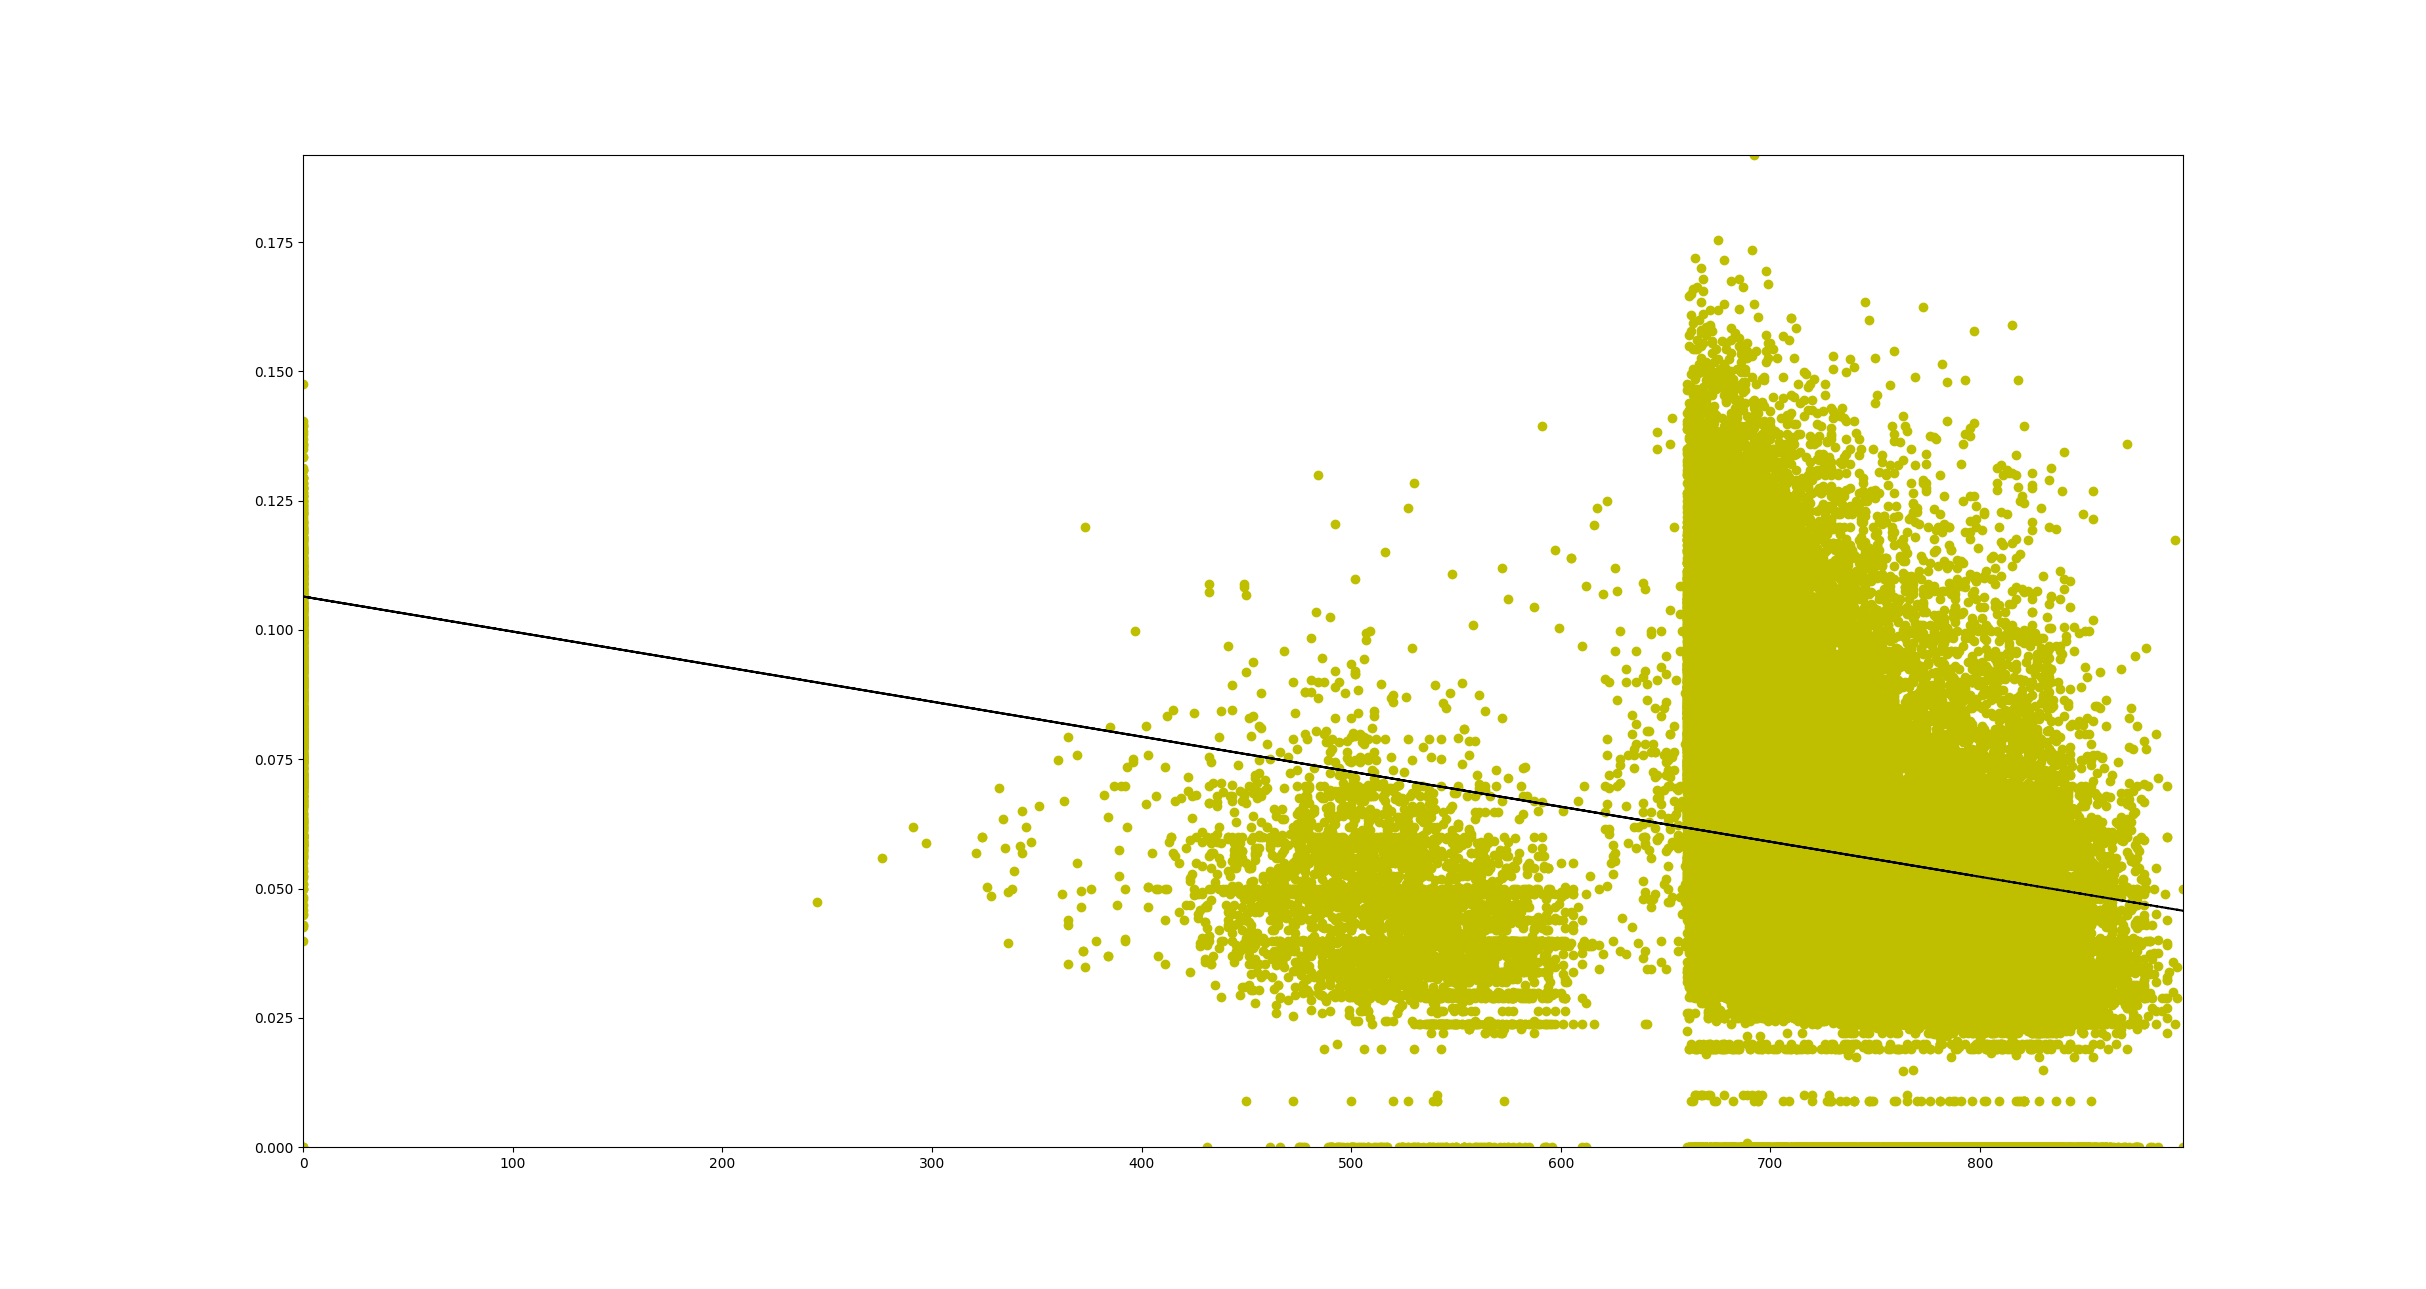
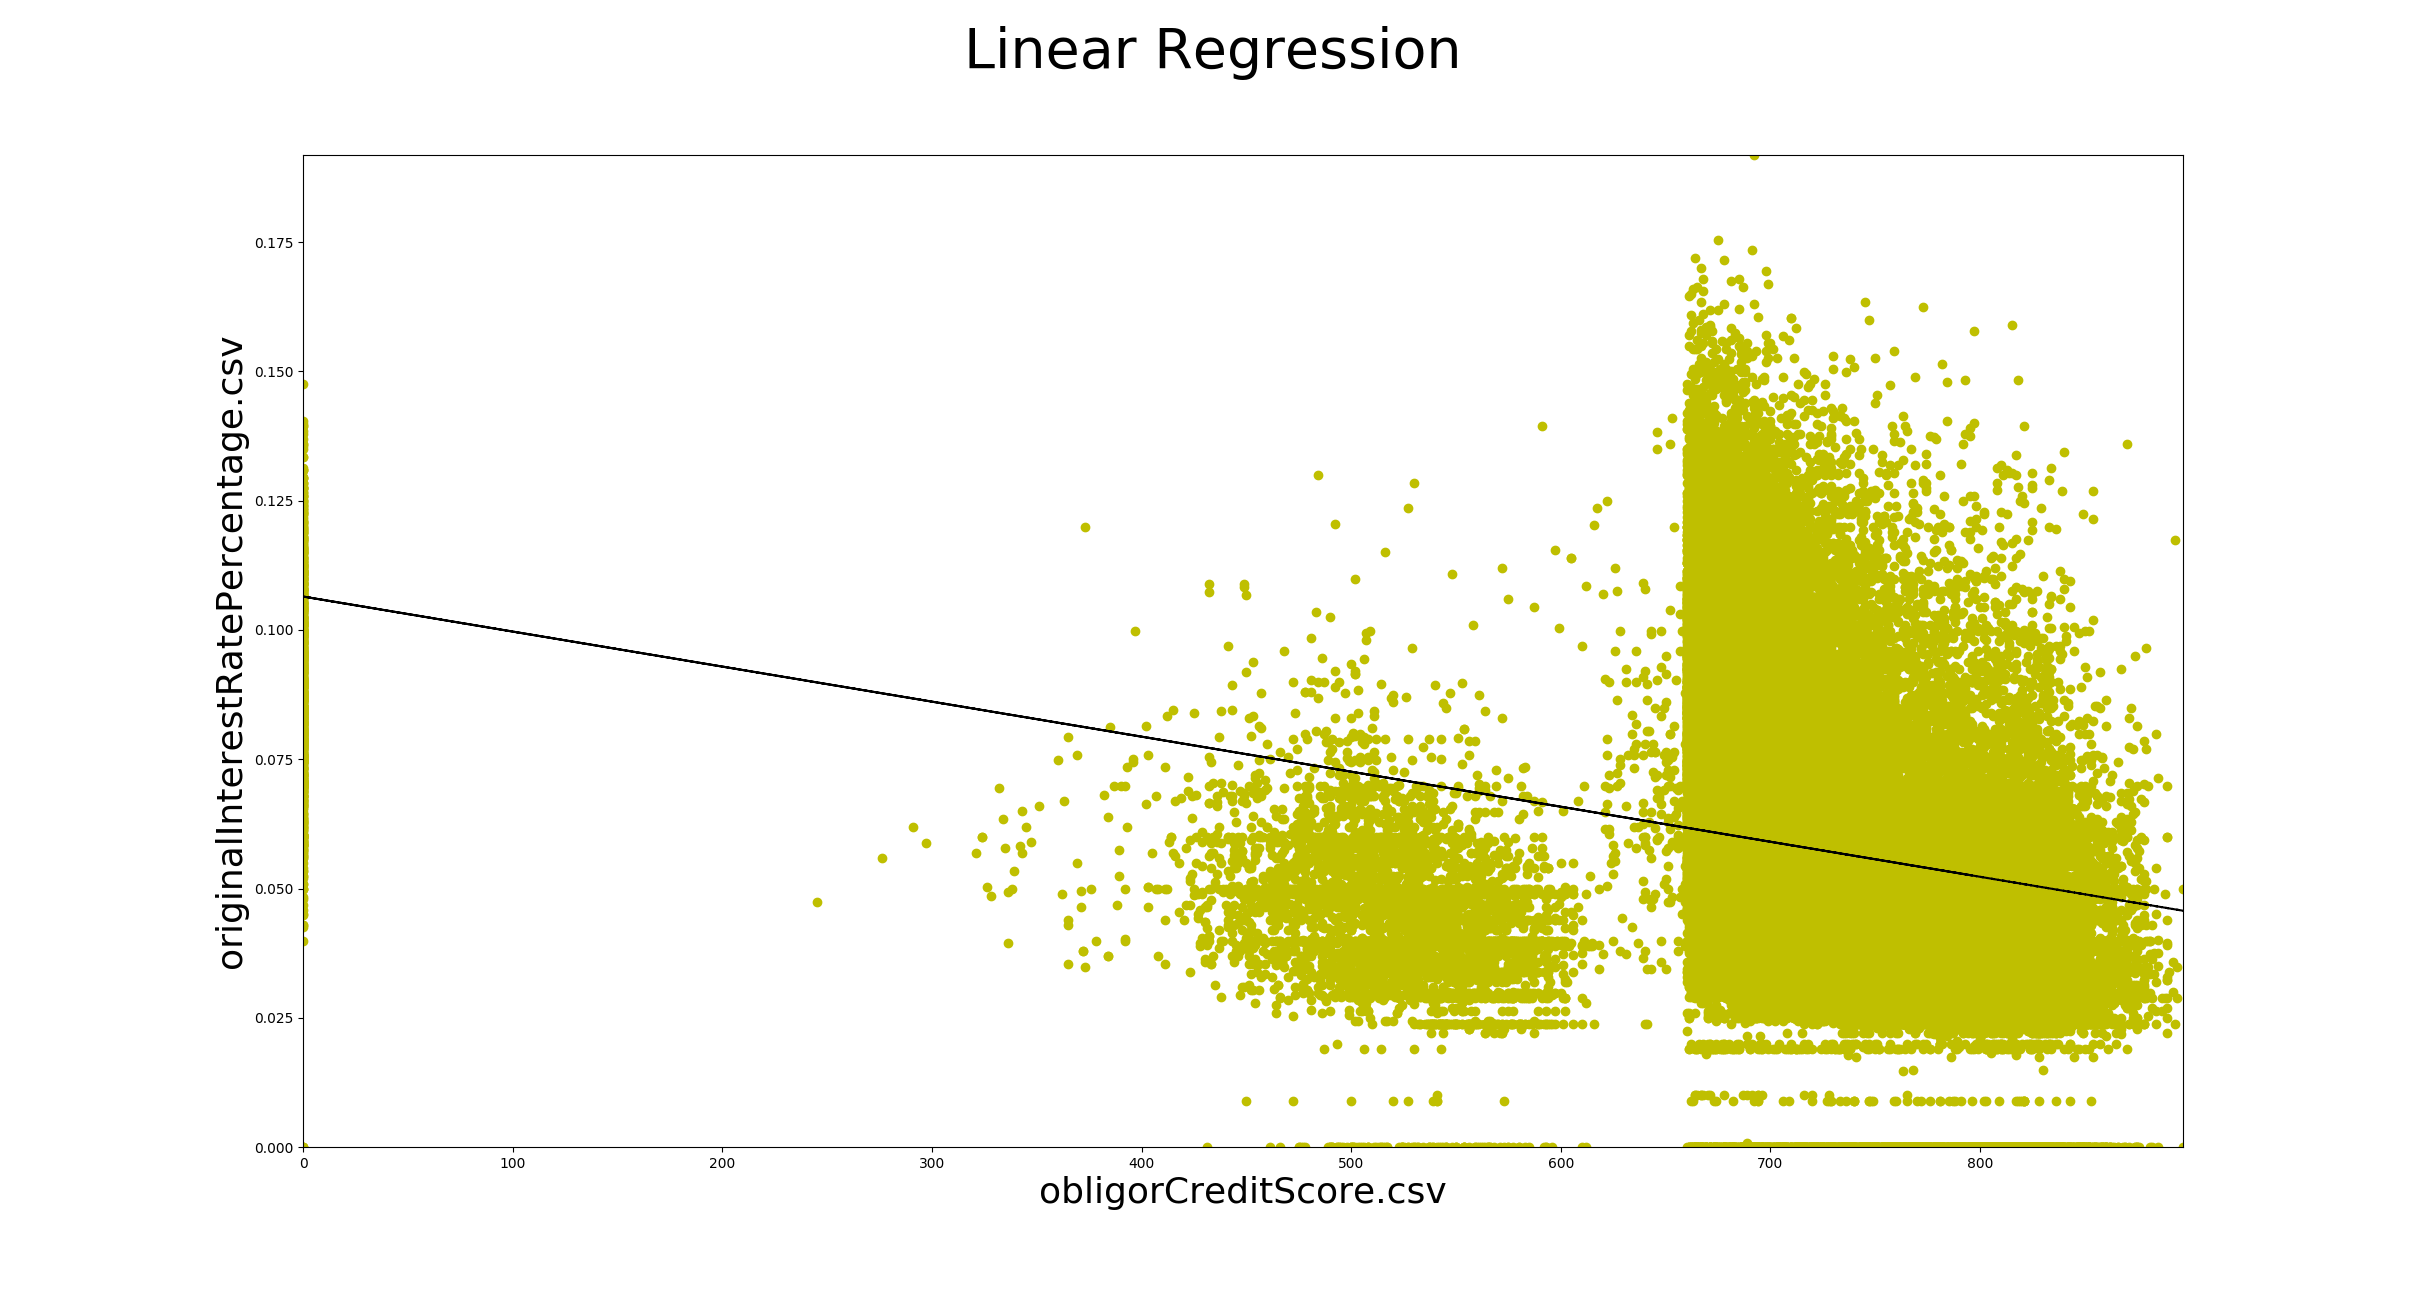
Even better!

diff --git a/analyze.py b/analyze.py
@@ -132,6 +132,9 @@ def fixNan(array):
 
 
 def plotRegression(x, y):
+	x_title = x
+	y_title = y
+
 	x = numpy.genfromtxt(open(csvDirectory + x, "rb"), delimiter=",")
 	y = numpy.genfromtxt(open(csvDirectory + y, "rb"), delimiter=",")
 
@@ -143,8 +146,15 @@ def plotRegression(x, y):
 
 	plt.plot(x,y, 'yo', x, fit_fn(x), '--k')
 	plt.xlim(0, x.max())
+
+	plt.suptitle("Linear Regression", fontsize = 40)
+	plt.xlabel(x_title, fontsize=26)
+	plt.ylabel(y_title, fontsize=26)
+	
 	plt.ylim(0, y.max())
 	plt.show()
+
+
 
 if __name__ == "__main__":
 	x = "obligorCreditScore.csv"
